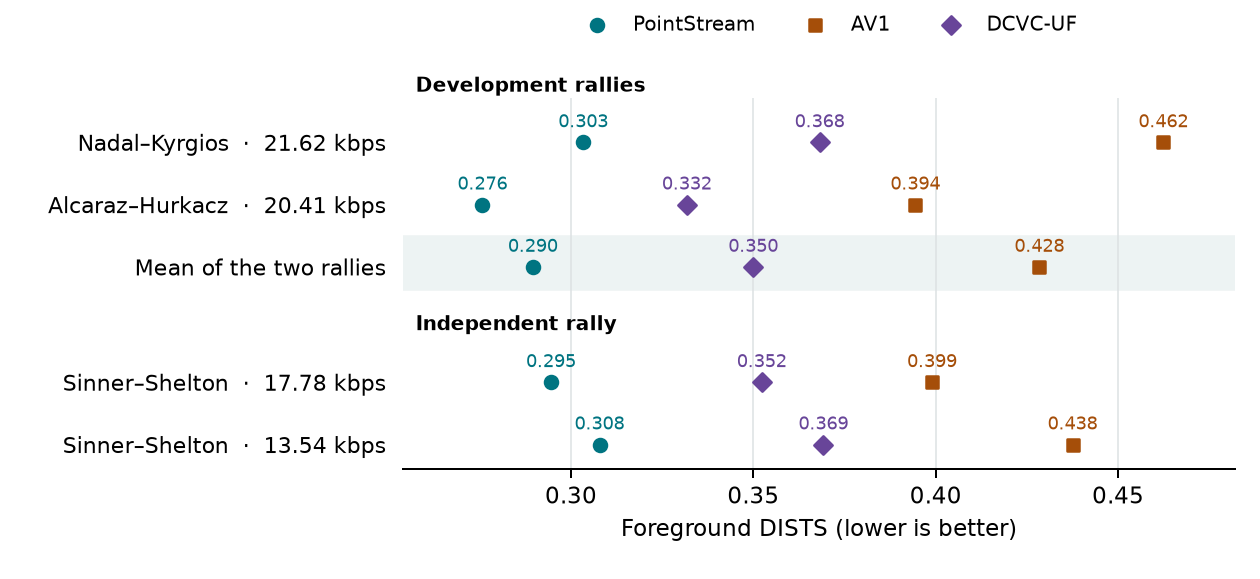
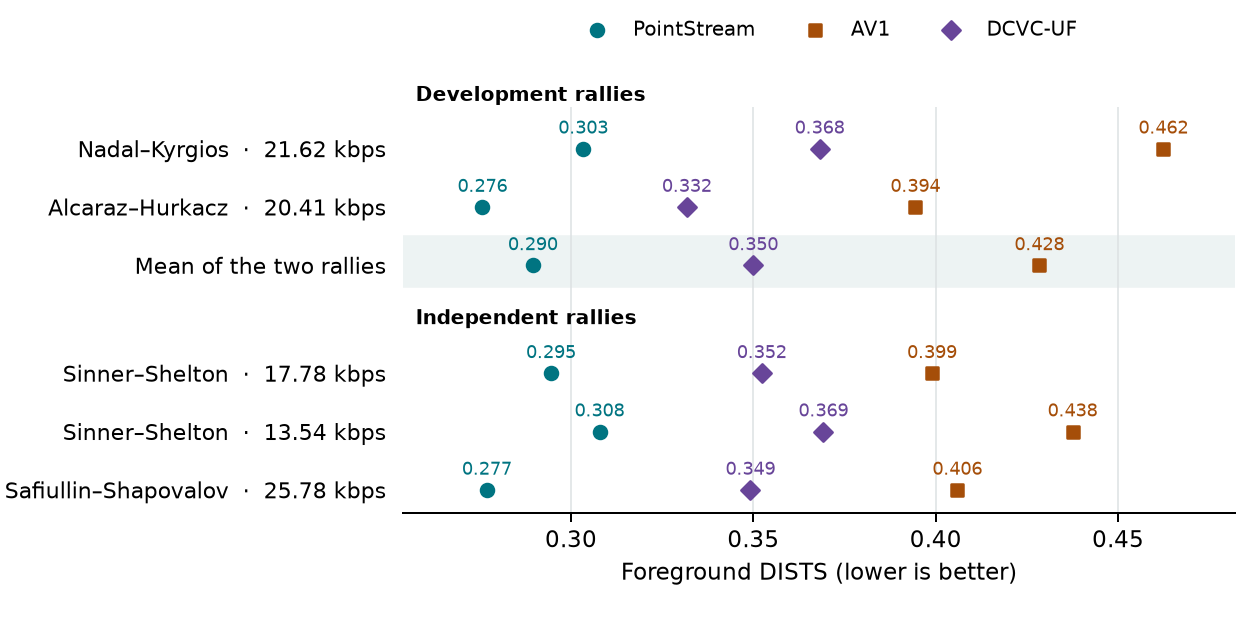
Add the second independently selected match to the foreground figure

diff --git a/docs/paper/figures/reviewed-foreground/complete_matches.py b/docs/paper/figures/reviewed-foreground/complete_matches.py
@@ -1,4 +1,4 @@
-"""Plot the two reviewed development rallies and the independently selected broadcast."""
+"""Plot the reviewed development rallies and the independently selected broadcasts."""
 
 import json
 from pathlib import Path
@@ -14,25 +14,31 @@ def plot():
     external = json.loads(
         (CARDS / "shanghai-joint-low-anchors-20261122/comparison-final-neural.json").read_text()
     )["measured_rungs"]
+    sydney = json.loads(
+        (CARDS / "sydney-joint-foreground-20261122/comparison-matched-rung-70.json").read_text()
+    )["measured_rungs"]
     names = ("PointStream", "AV1", "DCVC-UF")
     rows = []
     for match, ceiling in [("Nadal–Kyrgios", 21.62), ("Alcaraz–Hurkacz", 20.41)]:
         scores = reviewed["per_shot"][match]
         rows.append((f"{match}  ·  {ceiling:.2f} kbps", [scores[n]["foreground"] for n in names]))
     rows.append(("Mean of the two rallies", [reviewed["pooled"][n]["foreground"] for n in names]))
-    for setting in ("50", "70"):
-        arm = external[setting]
+    for match, arm in (
+        ("Sinner–Shelton", external["50"]),
+        ("Sinner–Shelton", external["70"]),
+        ("Safiullin–Shapovalov", sydney["70"]),
+    ):
         budget = arm["cases"]["cached"]
         controls = [budget["controls"][family]["best"] for family in ("ordinary", "neural")]
         assert all(c["bytes"] <= budget["bytes"] for c in controls)
         scores = [candidate["scores"]["foreground"] for candidate in (arm["joint"], *controls)]
-        rows.append((f"Sinner–Shelton  ·  {budget['kbps']:.2f} kbps", scores))
+        rows.append((f"{match}  ·  {budget['kbps']:.2f} kbps", scores))
 
     with plt.rc_context({"pdf.fonttype": 42, "font.size": 9, "axes.spines.top": False}):
-        fig, ax = plt.subplots(figsize=(7.0, 3.22))
+        fig, ax = plt.subplots(figsize=(7.0, 3.52))
         fig.subplots_adjust(left=0.32, right=0.98, bottom=0.19, top=0.83)
-        ys = [4.35, 3.48, 2.61, 1.00, 0.13]
-        ax.axhspan(2.30, 3.04, color="#edf3f3", zorder=0)
+        ys = [5.22, 4.35, 3.48, 1.87, 1.00, 0.13]
+        ax.axhspan(3.17, 3.91, color="#edf3f3", zorder=0)
         ax.set_axisbelow(True)
         ax.grid(axis="x", lw=0.6, color="#dce1e3")
         for i, (name, color, marker) in enumerate(
@@ -53,7 +59,7 @@ def plot():
                 )
         ax.set(
             xlim=(0.254, 0.482),
-            ylim=(-0.21, 4.97),
+            ylim=(-0.21, 5.84),
             yticks=ys,
             yticklabels=[label for label, _ in rows],
             xlabel="Foreground DISTS (lower is better)",
@@ -61,7 +67,7 @@ def plot():
         ax.tick_params(axis="y", length=0, pad=7, labelsize=8.7)
         for side in ("top", "right", "left"):
             ax.spines[side].set_visible(False)
-        for label, y in [("Development rallies", 4.99), ("Independent rally", 1.66)]:
+        for label, y in [("Development rallies", 5.86), ("Independent rallies", 2.53)]:
             ax.text(
                 0.015,
                 y,
